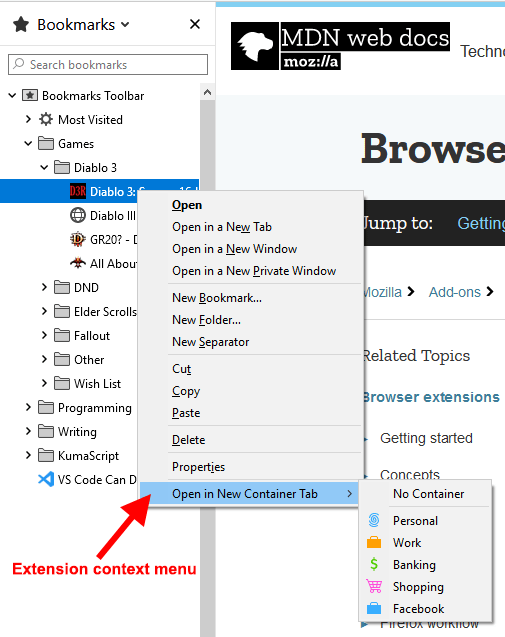
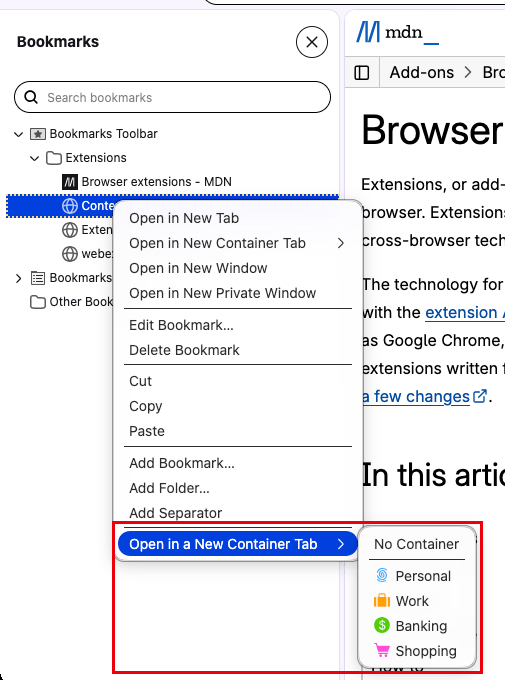
Further menu UI screenshots

Changed region(s): [[0.0, 0.0, 1.0, 1.0]]

diff --git a/files/en-us/mozilla/add-ons/webextensions/user_interface/context_menu_items/index.md b/files/en-us/mozilla/add-ons/webextensions/user_interface/context_menu_items/index.md
@@ -13,11 +13,11 @@ You use this option to expose features relevant to specific browser or web page 
 
 The full list of supported contexts is available at {{WebExtAPIRef("menus.ContextType")}} and includes contexts outside of a web page, such as bookmark items in the browser UI. For example, the "[Open bookmark in Container Tab](https://github.com/Rob--W/bookmark-container-tab)" extension adds a menu item that allows the user to open a bookmark URL in a new container tab.
 
-![A context menu with "open in new container tab" submenu highlighted. The submenu shows personal, work, banking, shopping, and Facebook contextual identities. There is an option at the top of the submenu to select no container.](extension_context_menu.png)
+![A bookmark context menu in the Firefox bookmarks sidebar with the extension's "Open in a New Container Tab" submenu highlighted. The submenu shows personal, work, banking, and shopping contextual identities, with an option at the top to select no container.](extension_context_menu.png)
 
 You can also override the context menus displayed in extension pages, such as custom sidebars and popups, to use either the tab or bookmark context menus instead of the default context menu, with {{WebExtAPIRef("menus.overrideContext")}}. This is a helpful method when your extension provides a custom presentation of tabs or bookmarks. The menu automatically includes menu items for any other extensions that have defined tab or bookmark context menu items. You can choose whether to include the default context menu items. Hiding the default items gives the extension complete control over the items displayed in the rendered native context menu, as shown in the image below for the Tree Style Tab extension.
 
-![A tab context menu displayed for a tab item in the sidebar of the Tree Style Tab extension. The menu shows custom tab actions, a menu item for the extension, and a menu item for the Simple Tab Group extension.](custom_sidebar_tab_menu.png)
+![A tab context menu displayed for a tab item in the sidebar of the Tree Style Tab extension. The menu shows tab actions, a "Tree of tabs" menu item for the extension, and a "Move tab to group" menu item for the Simple Tab Groups extension.](custom_sidebar_tab_menu.png)
 
 ## Specifying context menu items
 
